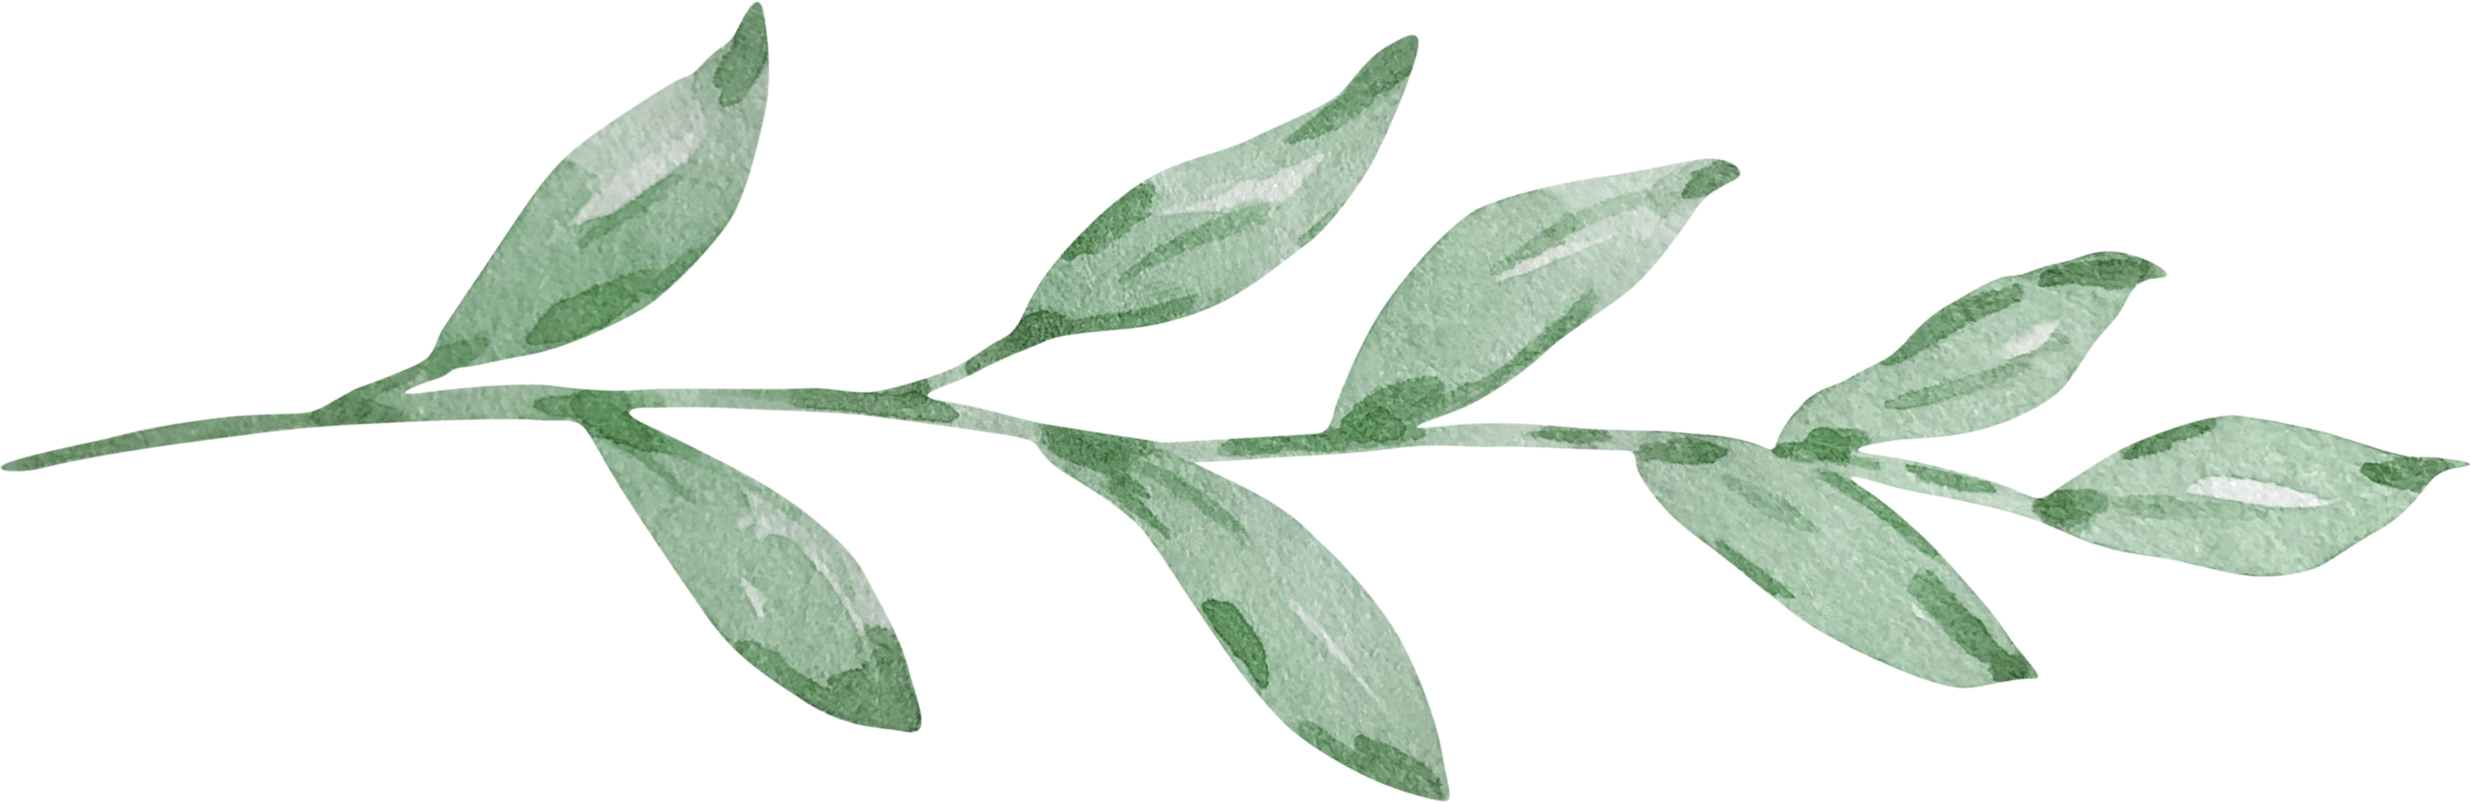
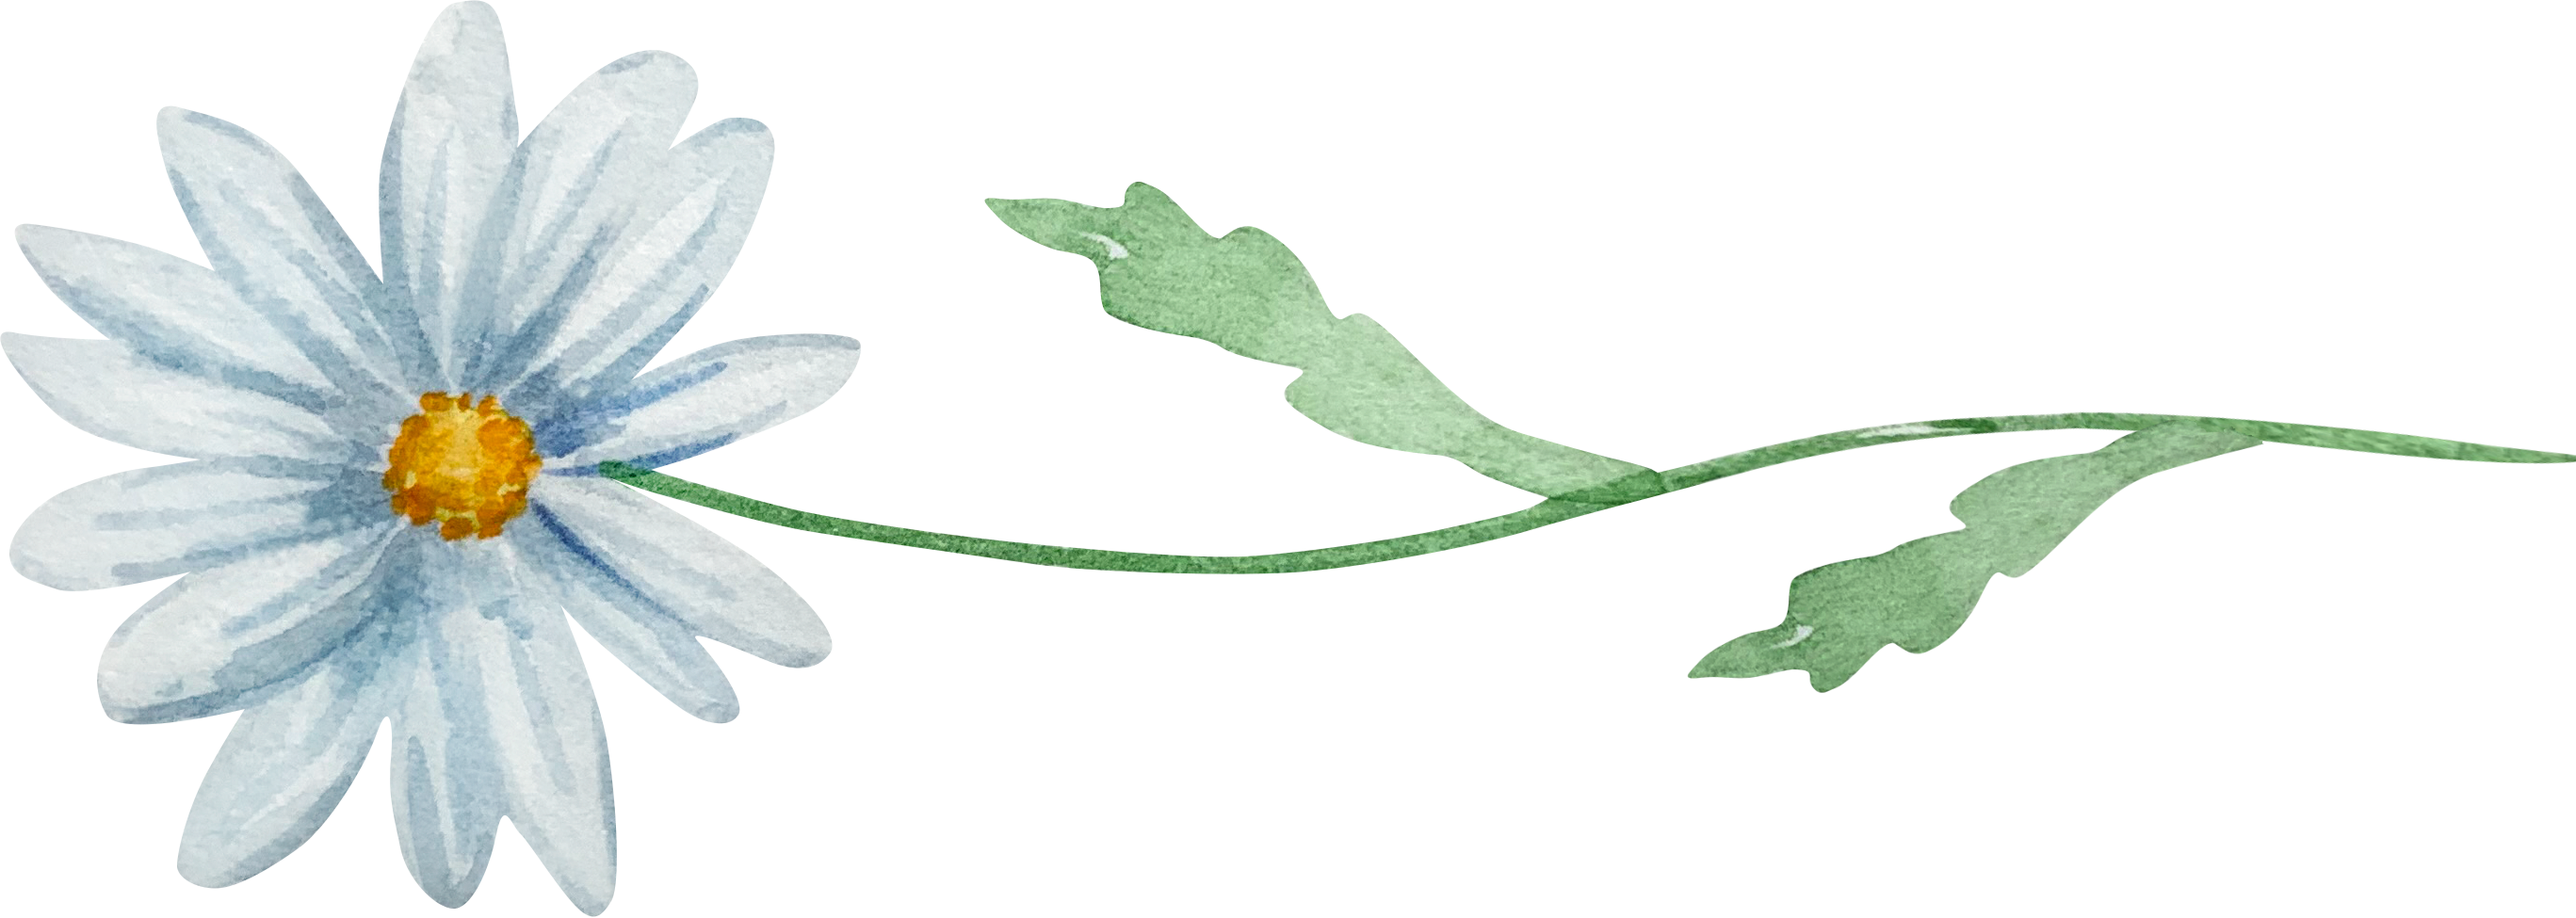
adjusted divider

diff --git a/index.html b/index.html
@@ -306,7 +306,9 @@ nav {
   height: 2rem;
   width: auto;
 }
-.sec-divider.flip img { transform: scaleX(-1); }
+.sec-divider.flip img:not(.sec-leaf) { transform: scaleX(-1); }
+.sec-divider img.sec-leaf { height: 1.5rem; }
+.sec-divider .sec-leaf:first-child { transform: scaleX(-1); }
 
 
 /* ══════════  DATUM & MÍSTO  ══════════ */
@@ -829,7 +831,7 @@ footer { position: relative; }
   <p>Najdete zde podrobné informace týkající se průběhu celého dne a veškerých možností, které hostům nabízíme. Stránky mohou být aktualizovány, a proto je doporučujeme navštěvovat průběžně pro nejaktuálnější informace.</p>
 </div>
 
-<div class="sec-divider"><img src="img/flower.png" alt=""></div>
+<div class="sec-divider"><img class="sec-leaf" src="img/leafs.png" alt=""><img src="img/flower.png" alt=""><img class="sec-leaf" src="img/leafs.png" alt=""></div>
 
 <!-- ══════  01 — DOPRAVA  ══════ -->
 <section class="section" id="datum">
@@ -891,7 +893,7 @@ footer { position: relative; }
   </div>
 </section>
 
-<div class="sec-divider flip"><img src="img/flower.png" alt=""></div>
+<div class="sec-divider flip"><img class="sec-leaf" src="img/leafs.png" alt=""><img src="img/flower.png" alt=""><img class="sec-leaf" src="img/leafs.png" alt=""></div>
 
 <!-- ══════  02 — UBYTOVÁNÍ  ══════ -->
 <section class="section" id="ubytovani">
@@ -916,7 +918,7 @@ footer { position: relative; }
   </div>
 </section>
 
-<div class="sec-divider"><img src="img/flower.png" alt=""></div>
+<div class="sec-divider"><img class="sec-leaf" src="img/leafs.png" alt=""><img src="img/flower.png" alt=""><img class="sec-leaf" src="img/leafs.png" alt=""></div>
 
 <!-- ══════  03 — PROGRAM  ══════ -->
 <section class="section" id="program">
@@ -1005,7 +1007,7 @@ footer { position: relative; }
   </div>
 </section>
 
-<div class="sec-divider flip"><img src="img/flower.png" alt=""></div>
+<div class="sec-divider flip"><img class="sec-leaf" src="img/leafs.png" alt=""><img src="img/flower.png" alt=""><img class="sec-leaf" src="img/leafs.png" alt=""></div>
 
 <!-- ══════  04 — DRESS CODE  ══════ -->
 <section class="section" id="dresscode">
@@ -1029,7 +1031,7 @@ footer { position: relative; }
   </div>
 </section>
 
-<div class="sec-divider"><img src="img/flower.png" alt=""></div>
+<div class="sec-divider"><img class="sec-leaf" src="img/leafs.png" alt=""><img src="img/flower.png" alt=""><img class="sec-leaf" src="img/leafs.png" alt=""></div>
 
 <!-- ══════  05 — DARY  ══════ -->
 <section class="section" id="dary">
@@ -1045,7 +1047,7 @@ footer { position: relative; }
   </div>
 </section>
 
-<div class="sec-divider flip"><img src="img/flower.png" alt=""></div>
+<div class="sec-divider flip"><img class="sec-leaf" src="img/leafs.png" alt=""><img src="img/flower.png" alt=""><img class="sec-leaf" src="img/leafs.png" alt=""></div>
 
 <!-- ══════  06 — DALŠÍ INFORMACE  ══════ -->
 <section class="section" id="dalsi-informace">
